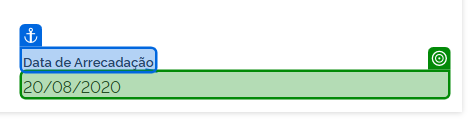
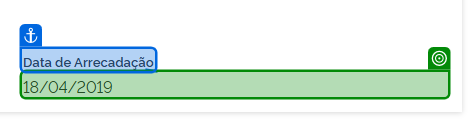
Correção verificar data de arrecadação

Changed region(s): [[0.0298, 0.6378, 0.2681, 0.7323]]

diff --git a/Main.xaml b/Main.xaml
@@ -279,15 +279,11 @@
       <x:Boolean x:Key="ShouldCollapseAll">False</x:Boolean>
     </scg:Dictionary>
   </sap:WorkflowViewStateService.ViewState>
-  <Sequence DisplayName="Main Sequence" sap:VirtualizedContainerService.HintSize="3518,55852" sap2010:WorkflowViewState.IdRef="Sequence_6">
+  <Sequence DisplayName="Main Sequence" sap:VirtualizedContainerService.HintSize="3518,55773" sap2010:WorkflowViewState.IdRef="Sequence_6">
     <Sequence.Variables>
       <Variable x:TypeArguments="x:Boolean" Name="naoPossuiArrecadacao" />
       <Variable x:TypeArguments="x:Boolean" Name="verificaAcimaDeMil" />
-      <Variable x:TypeArguments="x:Int32" Name="ano">
-        <Variable.Default>
-          <Literal x:TypeArguments="x:Int32" Value="2020" />
-        </Variable.Default>
-      </Variable>
+      <Variable x:TypeArguments="x:Int32" Default="2020" Name="ano" />
       <Variable x:TypeArguments="x:String" Name="sheet" />
       <Variable x:TypeArguments="x:String" Name="usuario" />
       <Variable x:TypeArguments="x:String" Name="certificado" />
@@ -295,11 +291,7 @@
       <Variable x:TypeArguments="x:String" Name="pagina" />
       <Variable x:TypeArguments="x:String" Name="empresa" />
       <Variable x:TypeArguments="x:String" Name="cnpj" />
-      <Variable x:TypeArguments="x:Int32" Name="maximoDispositivos">
-        <Variable.Default>
-          <Literal x:TypeArguments="x:Int32" />
-        </Variable.Default>
-      </Variable>
+      <Variable x:TypeArguments="x:Int32" Default="0" Name="maximoDispositivos" />
       <Variable x:TypeArguments="x:Boolean" Name="pastaExiste" />
       <Variable x:TypeArguments="x:String" Name="codigoDescricao" />
       <Variable x:TypeArguments="x:String" Name="dataAbertura" />
@@ -312,11 +304,7 @@
       <Variable x:TypeArguments="x:String" Name="darf" />
       <Variable x:TypeArguments="x:String" Name="valorDarf" />
       <Variable x:TypeArguments="x:String" Name="textoPDF" />
-      <Variable x:TypeArguments="x:Int32" Name="menosAno">
-        <Variable.Default>
-          <Literal x:TypeArguments="x:Int32" />
-        </Variable.Default>
-      </Variable>
+      <Variable x:TypeArguments="x:Int32" Default="0" Name="menosAno" />
       <Variable x:TypeArguments="x:String" Name="data2" />
       <Variable x:TypeArguments="x:String" Name="data1" />
       <Variable x:TypeArguments="s:DateTime" Name="dataInicial" />
@@ -332,11 +320,7 @@
       <Variable x:TypeArguments="x:String" Name="newSheet" />
       <Variable x:TypeArguments="sd:DataTable" Name="tabelaFaseamento" />
       <Variable x:TypeArguments="sd:DataTable" Name="dataPerdcomp" />
-      <Variable x:TypeArguments="x:Int32" Name="mesAtual">
-        <Variable.Default>
-          <Literal x:TypeArguments="x:Int32" />
-        </Variable.Default>
-      </Variable>
+      <Variable x:TypeArguments="x:Int32" Default="0" Name="mesAtual" />
     </Sequence.Variables>
     <sap:WorkflowViewStateService.ViewState>
       <scg:Dictionary x:TypeArguments="x:String, x:Object">
@@ -445,13 +429,13 @@
     </Assign>
     <ui:MessageBox Caption="{x:Null}" ChosenButton="{x:Null}" AutoCloseAfter="00:00:00" Buttons="Ok" DisplayName="Texto pedindo para escolher" sap:VirtualizedContainerService.HintSize="3518,117" sap2010:WorkflowViewState.IdRef="MessageBox_6" Text="[&quot;Por favor, selecione o modelo de Excel em que será salvo.&quot;]" />
     <ui:SelectFile InitialDirectory="{x:Null}" Multiselect="{x:Null}" SelectedFiles="{x:Null}" DisplayName="Pede para escolher o modelo" Filter="Todos os arquivos |*.*" sap:VirtualizedContainerService.HintSize="3518,170" sap2010:WorkflowViewState.IdRef="SelectFile_2" SelectedFile="[sheet]" />
-    <ui:ForEachRow ColumnNames="{x:Null}" CurrentIndex="{x:Null}" DataTable="[tabelaDados]" DisplayName="Para Cada Linha" sap:VirtualizedContainerService.HintSize="3518,53417" sap2010:WorkflowViewState.IdRef="ForEachRow_2">
+    <ui:ForEachRow ColumnNames="{x:Null}" CurrentIndex="{x:Null}" DataTable="[tabelaDados]" DisplayName="Para Cada Linha" sap:VirtualizedContainerService.HintSize="3518,53339" sap2010:WorkflowViewState.IdRef="ForEachRow_2">
       <ui:ForEachRow.Body>
         <ActivityAction x:TypeArguments="sd:DataRow">
           <ActivityAction.Argument>
             <DelegateInArgument x:TypeArguments="sd:DataRow" Name="linhaAtual" />
           </ActivityAction.Argument>
-          <Sequence DisplayName="Ações para cada Empresa" sap:VirtualizedContainerService.HintSize="3516,53237" sap2010:WorkflowViewState.IdRef="Sequence_438">
+          <Sequence DisplayName="Ações para cada Empresa" sap:VirtualizedContainerService.HintSize="3516,53159" sap2010:WorkflowViewState.IdRef="Sequence_438">
             <sap:WorkflowViewStateService.ViewState>
               <scg:Dictionary x:TypeArguments="x:String, x:Object">
                 <x:Boolean x:Key="IsExpanded">True</x:Boolean>
@@ -490,13 +474,13 @@
               </Assign.Value>
             </Assign>
             <ui:CopyFile ContinueOnError="{x:Null}" Destination="[newSheet]" DisplayName="Copy File" sap:VirtualizedContainerService.HintSize="3482,186" sap2010:WorkflowViewState.IdRef="CopyFile_2" Overwrite="True" Path="[sheet]" />
-            <ueab:ExcelApplicationCard Password="{x:Null}" ReadFormatting="{x:Null}" SensitivityLabel="{x:Null}" CreateNewFile="False" DisplayName="Abre o Excel" sap:VirtualizedContainerService.HintSize="3482,52125" sap2010:WorkflowViewState.IdRef="ExcelApplicationCard_1" ResizeWindow="None" SensitivityOperation="None" WorkbookPath="[newSheet]">
+            <ueab:ExcelApplicationCard Password="{x:Null}" ReadFormatting="{x:Null}" SensitivityLabel="{x:Null}" CreateNewFile="False" DisplayName="Abre o Excel" sap:VirtualizedContainerService.HintSize="3482,52047" sap2010:WorkflowViewState.IdRef="ExcelApplicationCard_1" ResizeWindow="None" SensitivityOperation="None" WorkbookPath="[newSheet]">
               <ueab:ExcelApplicationCard.Body>
                 <ActivityAction x:TypeArguments="ue:IWorkbookQuickHandle">
                   <ActivityAction.Argument>
                     <DelegateInArgument x:TypeArguments="ue:IWorkbookQuickHandle" Name="Excel" />
                   </ActivityAction.Argument>
-                  <Sequence DisplayName="Do" sap:VirtualizedContainerService.HintSize="3448,51824" sap2010:WorkflowViewState.IdRef="Sequence_515">
+                  <Sequence DisplayName="Do" sap:VirtualizedContainerService.HintSize="3448,51706" sap2010:WorkflowViewState.IdRef="Sequence_515">
                     <Sequence.Variables>
                       <Variable x:TypeArguments="x:String" Name="cnpjFormatado" />
                     </Sequence.Variables>
@@ -1022,21 +1006,21 @@
                         <InArgument x:TypeArguments="x:String">[cnpj.replace(".","").replace("-","").replace("/","")]</InArgument>
                       </Assign.Value>
                     </Assign>
-                    <If Condition="[Excel.Sheet(&quot;CHECKLIST&quot;).Cell(&quot;B7&quot;).StringValue = &quot;&quot;]" DisplayName="Verifica se a célula B7 está vazia" sap:VirtualizedContainerService.HintSize="3414,3652" sap2010:WorkflowViewState.IdRef="If_60">
+                    <If Condition="[Excel.Sheet(&quot;CHECKLIST&quot;).Cell(&quot;B7&quot;).StringValue = &quot;&quot;]" DisplayName="Verifica se a célula B7 está vazia" sap:VirtualizedContainerService.HintSize="3414,3572" sap2010:WorkflowViewState.IdRef="If_60">
                       <If.Then>
-                        <Sequence DisplayName="Célula B7 está vazia" sap:VirtualizedContainerService.HintSize="1152,3424" sap2010:WorkflowViewState.IdRef="Sequence_398">
+                        <Sequence DisplayName="Célula B7 está vazia" sap:VirtualizedContainerService.HintSize="1152,3344" sap2010:WorkflowViewState.IdRef="Sequence_398">
                           <sap:WorkflowViewStateService.ViewState>
                             <scg:Dictionary x:TypeArguments="x:String, x:Object">
                               <x:Boolean x:Key="IsExpanded">True</x:Boolean>
                             </scg:Dictionary>
                           </sap:WorkflowViewStateService.ViewState>
-                          <uix:NApplicationCard AttachMode="ByInstance" DisplayName="Abre o Simples Nacional" HealingAgentBehavior="Job" sap:VirtualizedContainerService.HintSize="1118,2991" sap2010:WorkflowViewState.IdRef="NApplicationCard_21" InteractionMode="DebuggerApi" ScopeGuid="b1b732b3-8ce9-4a33-9a60-fbc138b7fbfb" Version="V2">
+                          <uix:NApplicationCard AttachMode="ByInstance" DisplayName="Abre o Simples Nacional" HealingAgentBehavior="Job" sap:VirtualizedContainerService.HintSize="1118,2911" sap2010:WorkflowViewState.IdRef="NApplicationCard_21" InteractionMode="DebuggerApi" ScopeGuid="b1b732b3-8ce9-4a33-9a60-fbc138b7fbfb" Version="V2">
                             <uix:NApplicationCard.Body>
                               <ActivityAction x:TypeArguments="x:Object">
                                 <ActivityAction.Argument>
                                   <DelegateInArgument x:TypeArguments="x:Object" Name="WSSessionData" />
                                 </ActivityAction.Argument>
-                                <Sequence DisplayName="Navega pelo Simples Nacional" sap:VirtualizedContainerService.HintSize="1084,2702" sap2010:WorkflowViewState.IdRef="Sequence_400">
+                                <Sequence DisplayName="Navega pelo Simples Nacional" sap:VirtualizedContainerService.HintSize="1084,2662" sap2010:WorkflowViewState.IdRef="Sequence_400">
                                   <Sequence.Variables>
                                     <Variable x:TypeArguments="x:String" Name="OptanteSimplesNacional" />
                                   </Sequence.Variables>
@@ -1111,7 +1095,7 @@
                                       </uix:TargetAnchorable>
                                     </uix:NClick.Target>
                                   </uix:NClick>
-                                  <uix:NCheckState DisplayName="Verifica se tem período do Simples Nacional" HealingAgentBehavior="Disabled" sap:VirtualizedContainerService.HintSize="1050,1140" sap2010:WorkflowViewState.IdRef="NCheckState_51" ScopeIdentifier="b1b732b3-8ce9-4a33-9a60-fbc138b7fbfb" Version="V4">
+                                  <uix:NCheckState DisplayName="Verifica se tem período do Simples Nacional" HealingAgentBehavior="Disabled" sap:VirtualizedContainerService.HintSize="1050,1100" sap2010:WorkflowViewState.IdRef="NCheckState_51" ScopeIdentifier="b1b732b3-8ce9-4a33-9a60-fbc138b7fbfb" Version="V4">
                                     <uix:NCheckState.IfExists>
                                       <Sequence DisplayName="Se tem" sap:VirtualizedContainerService.HintSize="546,851" sap2010:WorkflowViewState.IdRef="Sequence_401">
                                         <sap:WorkflowViewStateService.ViewState>
@@ -1249,28 +1233,20 @@
                         </Sequence>
                       </If.Else>
                     </If>
-                    <uix:NApplicationCard DisplayName="Browser" HealingAgentBehavior="Job" sap:VirtualizedContainerService.HintSize="3414,41834" sap2010:WorkflowViewState.IdRef="NApplicationCard_1" InteractionMode="DebuggerApi" ScopeGuid="cd12c88d-9ee2-4e74-a831-638ddf9c26dc" UserDataFolderMode="DefaultFolder">
+                    <uix:NApplicationCard DisplayName="Browser" HealingAgentBehavior="Job" sap:VirtualizedContainerService.HintSize="3414,41796" sap2010:WorkflowViewState.IdRef="NApplicationCard_1" InteractionMode="DebuggerApi" ScopeGuid="cd12c88d-9ee2-4e74-a831-638ddf9c26dc" UserDataFolderMode="DefaultFolder">
                       <uix:NApplicationCard.Body>
                         <ActivityAction x:TypeArguments="x:Object">
                           <ActivityAction.Argument>
                             <DelegateInArgument x:TypeArguments="x:Object" Name="WSSessionData" />
                           </ActivityAction.Argument>
-                          <Sequence DisplayName="cnpjNavega pelo eCAC" sap:VirtualizedContainerService.HintSize="3380,41594" sap2010:WorkflowViewState.IdRef="Sequence_2">
+                          <Sequence DisplayName="cnpjNavega pelo eCAC" sap:VirtualizedContainerService.HintSize="3380,41556" sap2010:WorkflowViewState.IdRef="Sequence_2">
                             <Sequence.Variables>
                               <Variable x:TypeArguments="x:Boolean" Name="verificouOlho" />
                               <Variable x:TypeArguments="s:DateTime" Name="dataHoje" />
                               <Variable x:TypeArguments="x:String" Name="dataHojeFormatada" />
                               <Variable x:TypeArguments="x:String" Name="anoAbertura" />
-                              <Variable x:TypeArguments="x:Int32" Name="anoAtual">
-                                <Variable.Default>
-                                  <Literal x:TypeArguments="x:Int32" />
-                                </Variable.Default>
-                              </Variable>
-                              <Variable x:TypeArguments="x:Int32" Name="difAnoAtualAbertura">
-                                <Variable.Default>
-                                  <Literal x:TypeArguments="x:Int32" />
-                                </Variable.Default>
-                              </Variable>
+                              <Variable x:TypeArguments="x:Int32" Default="0" Name="anoAtual" />
+                              <Variable x:TypeArguments="x:Int32" Default="0" Name="difAnoAtualAbertura" />
                             </Sequence.Variables>
                             <sap:WorkflowViewStateService.ViewState>
                               <scg:Dictionary x:TypeArguments="x:String, x:Object">
@@ -1414,7 +1390,7 @@
                                 </Sequence>
                               </ui:InterruptibleWhile.Body>
                             </ui:InterruptibleWhile>
-                            <uix:NCheckState DisplayName="Verifica se atingiu o máximo" EnableIfNotExists="False" HealingAgentBehavior="Disabled" sap:VirtualizedContainerService.HintSize="2908,697" sap2010:WorkflowViewState.IdRef="NCheckState_10" ScopeIdentifier="cd12c88d-9ee2-4e74-a831-638ddf9c26dc" Version="V4">
+                            <uix:NCheckState DisplayName="Verifica se atingiu o máximo" EnableIfNotExists="False" HealingAgentBehavior="Disabled" sap:VirtualizedContainerService.HintSize="3346,657" sap2010:WorkflowViewState.IdRef="NCheckState_10" ScopeIdentifier="cd12c88d-9ee2-4e74-a831-638ddf9c26dc" Version="V4">
                               <uix:NCheckState.IfExists>
                                 <Sequence DisplayName="Atingiu" sap:VirtualizedContainerService.HintSize="450,408" sap2010:WorkflowViewState.IdRef="Sequence_36">
                                   <sap:WorkflowViewStateService.ViewState>
@@ -1596,9 +1572,9 @@
                                 <uix:TargetAnchorable BrowserURL="cav.receita.fazenda.gov.br/ecac" ContentHash="tnYmiF1BH0mTNN8iZBS5bQ" DesignTimeRectangle="762, 592, 413, 75" ElementType="Text" FullSelectorArgument="&lt;webctrl parentid='dialog-bloqueio-ativo-caixapostal' tag='P' /&gt;" Guid="3c3801f5-5bd6-443e-8354-af488f5b6060" InformativeScreenshot="86381629ef0cda24e1e91bb0b0b28fd4.png" Reference="DRaOZbhlWkaD6Iu4Nuk-ug/H7GRVdEiWEOfvxFReFYL_w" ScopeSelectorArgument="&lt;html app='chrome.exe' title='eCAC - Centro Virtual de Atendimento' /&gt;" SearchSteps="Selector" Version="V6" Visibility="Interactive" WaitForReadyArgument="None" />
                               </uix:NCheckState.Target>
                             </uix:NCheckState>
-                            <uix:NCheckState DisplayName="Check App State 'Restituição e Compensaç…'" HealingAgentBehavior="Disabled" sap:VirtualizedContainerService.HintSize="3346,9156" sap2010:WorkflowViewState.IdRef="NCheckState_62" ScopeIdentifier="cd12c88d-9ee2-4e74-a831-638ddf9c26dc" Version="V4">
+                            <uix:NCheckState DisplayName="Check App State 'Restituição e Compensaç…'" HealingAgentBehavior="Disabled" sap:VirtualizedContainerService.HintSize="3346,9158" sap2010:WorkflowViewState.IdRef="NCheckState_62" ScopeIdentifier="cd12c88d-9ee2-4e74-a831-638ddf9c26dc" Version="V4">
                               <uix:NCheckState.IfExists>
-                                <Sequence DisplayName="Target appears" sap:VirtualizedContainerService.HintSize="2842,8907" sap2010:WorkflowViewState.IdRef="Sequence_467">
+                                <Sequence DisplayName="Target appears" sap:VirtualizedContainerService.HintSize="2842,8909" sap2010:WorkflowViewState.IdRef="Sequence_467">
                                   <sap:WorkflowViewStateService.ViewState>
                                     <scg:Dictionary x:TypeArguments="x:String, x:Object">
                                       <x:Boolean x:Key="IsExpanded">True</x:Boolean>
@@ -1627,13 +1603,13 @@
                                     </uix:NClick.Target>
                                   </uix:NClick>
                                   <Delay Duration="00:00:03" sap:VirtualizedContainerService.HintSize="2808,122" sap2010:WorkflowViewState.IdRef="Delay_16" />
-                                  <uix:NApplicationCard AttachMode="ByInstance" CloseMode="Always" DisplayName="Chrome Consulta Processamento" HealingAgentBehavior="Job" sap:VirtualizedContainerService.HintSize="2808,8345" sap2010:WorkflowViewState.IdRef="NApplicationCard_27" InteractionMode="DebuggerApi" ScopeGuid="8460fdfd-4d49-4e02-bf0b-28bd3075acb0" Version="V2">
+                                  <uix:NApplicationCard AttachMode="ByInstance" CloseMode="Always" DisplayName="Chrome Consulta Processamento" HealingAgentBehavior="Job" sap:VirtualizedContainerService.HintSize="2808,8347" sap2010:WorkflowViewState.IdRef="NApplicationCard_27" InteractionMode="DebuggerApi" ScopeGuid="8460fdfd-4d49-4e02-bf0b-28bd3075acb0" Version="V2">
                                     <uix:NApplicationCard.Body>
                                       <ActivityAction x:TypeArguments="x:Object">
                                         <ActivityAction.Argument>
                                           <DelegateInArgument x:TypeArguments="x:Object" Name="WSSessionData" />
                                         </ActivityAction.Argument>
-                                        <Sequence DisplayName="Do" sap:VirtualizedContainerService.HintSize="2774,8103" sap2010:WorkflowViewState.IdRef="Sequence_460">
+                                        <Sequence DisplayName="Do" sap:VirtualizedContainerService.HintSize="2774,8105" sap2010:WorkflowViewState.IdRef="Sequence_460">
                                           <Sequence.Variables>
                                             <Variable x:TypeArguments="x:String" Name="planilhaPerdcomp" />
                                           </Sequence.Variables>
@@ -1671,7 +1647,7 @@
                                               </uix:TargetAnchorable>
                                             </uix:NCheckState.Target>
                                           </uix:NCheckState>
-                                          <uix:NCheckState DisplayName="Check App State 'Não há documentos a ser…'" HealingAgentBehavior="Disabled" sap:VirtualizedContainerService.HintSize="2740,7832" sap2010:WorkflowViewState.IdRef="NCheckState_63" ScopeIdentifier="8460fdfd-4d49-4e02-bf0b-28bd3075acb0" Version="V4">
+                                          <uix:NCheckState DisplayName="Check App State 'Não há documentos a ser…'" HealingAgentBehavior="Disabled" sap:VirtualizedContainerService.HintSize="2740,7834" sap2010:WorkflowViewState.IdRef="NCheckState_63" ScopeIdentifier="8460fdfd-4d49-4e02-bf0b-28bd3075acb0" Version="V4">
                                             <uix:NCheckState.IfExists>
                                               <Sequence DisplayName="Target appears" sap:VirtualizedContainerService.HintSize="468,246" sap2010:WorkflowViewState.IdRef="Sequence_462">
                                                 <sap:WorkflowViewStateService.ViewState>
@@ -1683,13 +1659,13 @@
                                               </Sequence>
                                             </uix:NCheckState.IfExists>
                                             <uix:NCheckState.IfNotExists>
-                                              <Sequence DisplayName="Target does not appear" sap:VirtualizedContainerService.HintSize="2218,7590" sap2010:WorkflowViewState.IdRef="Sequence_466">
+                                              <Sequence DisplayName="Target does not appear" sap:VirtualizedContainerService.HintSize="2218,7592" sap2010:WorkflowViewState.IdRef="Sequence_466">
                                                 <sap:WorkflowViewStateService.ViewState>
                                                   <scg:Dictionary x:TypeArguments="x:String, x:Object">
                                                     <x:Boolean x:Key="IsExpanded">True</x:Boolean>
                                                   </scg:Dictionary>
                                                 </sap:WorkflowViewStateService.ViewState>
-                                                <uix:NSelectItem DisplayName="Select Item 'Exibir'" HealingAgentBehavior="SameAsCard" sap:VirtualizedContainerService.HintSize="1646,189" sap2010:WorkflowViewState.IdRef="NSelectItem_2" Item="100" ScopeIdentifier="8460fdfd-4d49-4e02-bf0b-28bd3075acb0" Version="V4">
+                                                <uix:NSelectItem DisplayName="Select Item 'Exibir'" HealingAgentBehavior="SameAsCard" sap:VirtualizedContainerService.HintSize="2184,189" sap2010:WorkflowViewState.IdRef="NSelectItem_2" Item="100" ScopeIdentifier="8460fdfd-4d49-4e02-bf0b-28bd3075acb0" Version="V4">
                                                   <uix:NSelectItem.Items>
                                                     <scg:List x:TypeArguments="x:String" Capacity="6">
                                                       <x:String>100</x:String>
@@ -1771,7 +1747,7 @@
                                                   </ueab:ExcelApplicationCard.Body>
                                                 </ueab:ExcelApplicationCard>
                                                 <ui:ExcelWriteRange AddHeaders="False" DataTable="[dataPerdcomp]" DisplayName="Write Range" sap:VirtualizedContainerService.HintSize="2184,120" sap2010:WorkflowViewState.IdRef="ExcelWriteRange_6" SheetName="PERDCOMPS" StartingCell="A2" />
-                                                <ueab:ExcelForEachRowX DisplayName="For Each Excel Row" EmptyRowBehavior="Stop" HasHeaders="True" sap:VirtualizedContainerService.HintSize="2184,5831" sap2010:WorkflowViewState.IdRef="ExcelForEachRowX_4" Range="[Excel.Sheet(&quot;PERDCOMPS&quot;)]" SaveAfterEachRow="True">
+                                                <ueab:ExcelForEachRowX DisplayName="For Each Excel Row" EmptyRowBehavior="Stop" HasHeaders="True" sap:VirtualizedContainerService.HintSize="2184,5833" sap2010:WorkflowViewState.IdRef="ExcelForEachRowX_4" Range="[Excel.Sheet(&quot;PERDCOMPS&quot;)]" SaveAfterEachRow="True">
                                                   <ueab:ExcelForEachRowX.Body>
                                                     <ActivityAction x:TypeArguments="ue:CurrentRowQuickHandle, x:Int32">
                                                       <ActivityAction.Argument1>
@@ -1780,7 +1756,7 @@
                                                       <ActivityAction.Argument2>
                                                         <DelegateInArgument x:TypeArguments="x:Int32" Name="CurrentIndex" />
                                                       </ActivityAction.Argument2>
-                                                      <Sequence DisplayName="Do" sap:VirtualizedContainerService.HintSize="2150,5616" sap2010:WorkflowViewState.IdRef="Sequence_475">
+                                                      <Sequence DisplayName="Do" sap:VirtualizedContainerService.HintSize="2150,5618" sap2010:WorkflowViewState.IdRef="Sequence_475">
                                                         <Sequence.Variables>
                                                           <Variable x:TypeArguments="x:String" Name="numPerdcomp" />
                                                           <Variable x:TypeArguments="x:String" Name="periodoApuracao" />
@@ -1838,13 +1814,13 @@
                                                             <InArgument x:TypeArguments="x:String">["https://www3.cav.receita.fazenda.gov.br/consprocperdcomp/consulta/processamento/relacionados/" + numPerdcompFormatado]</InArgument>
                                                           </Assign.Value>
                                                         </Assign>
-                                                        <uix:NApplicationCard AttachMode="ByInstance" CloseMode="Always" DisplayName="Chrome Consulta Processamento  Relacionados(1)" HealingAgentBehavior="Job" sap:VirtualizedContainerService.HintSize="2116,4876" sap2010:WorkflowViewState.IdRef="NApplicationCard_28" InteractionMode="DebuggerApi" ScopeGuid="3184b2f4-8b3f-4998-8030-418eff8befd1" Version="V2">
+                                                        <uix:NApplicationCard AttachMode="ByInstance" CloseMode="Always" DisplayName="Chrome Consulta Processamento  Relacionados(1)" HealingAgentBehavior="Job" sap:VirtualizedContainerService.HintSize="2116,4878" sap2010:WorkflowViewState.IdRef="NApplicationCard_28" InteractionMode="DebuggerApi" ScopeGuid="3184b2f4-8b3f-4998-8030-418eff8befd1" Version="V2">
                                                           <uix:NApplicationCard.Body>
                                                             <ActivityAction x:TypeArguments="x:Object">
                                                               <ActivityAction.Argument>
                                                                 <DelegateInArgument x:TypeArguments="x:Object" Name="WSSessionData" />
                                                               </ActivityAction.Argument>
-                                                              <Sequence DisplayName="Do" sap:VirtualizedContainerService.HintSize="2082,4634" sap2010:WorkflowViewState.IdRef="Sequence_478">
+                                                              <Sequence DisplayName="Do" sap:VirtualizedContainerService.HintSize="2082,4636" sap2010:WorkflowViewState.IdRef="Sequence_478">
                                                                 <sap:WorkflowViewStateService.ViewState>
                                                                   <scg:Dictionary x:TypeArguments="x:String, x:Object">
                                                                     <x:Boolean x:Key="IsExpanded">True</x:Boolean>
@@ -1879,7 +1855,7 @@
                                                                     </uix:TargetAnchorable>
                                                                   </uix:NCheckState.Target>
                                                                 </uix:NCheckState>
-                                                                <ui:CommentOut DisplayName="Comment Out" sap:VirtualizedContainerService.HintSize="2048,351" sap2010:WorkflowViewState.IdRef="CommentOut_3">
+                                                                <ui:CommentOut DisplayName="Comment Out" sap:VirtualizedContainerService.HintSize="2048,391" sap2010:WorkflowViewState.IdRef="CommentOut_3">
                                                                   <ui:CommentOut.Body>
                                                                     <Sequence DisplayName="Atividades Ignoradas" sap:VirtualizedContainerService.HintSize="450,240" sap2010:WorkflowViewState.IdRef="Sequence_486">
                                                                       <sap:WorkflowViewStateService.ViewState>
@@ -1911,7 +1887,7 @@
                                                                     </Sequence>
                                                                   </ui:CommentOut.Body>
                                                                 </ui:CommentOut>
-                                                                <uix:NCheckState DisplayName="Check App State 'Período de Apuração'" HealingAgentBehavior="Disabled" sap:VirtualizedContainerService.HintSize="2048,1139" sap2010:WorkflowViewState.IdRef="NCheckState_67" ScopeIdentifier="3184b2f4-8b3f-4998-8030-418eff8befd1" Version="V4">
+                                                                <uix:NCheckState DisplayName="Check App State 'Período de Apuração'" HealingAgentBehavior="Disabled" sap:VirtualizedContainerService.HintSize="2048,1101" sap2010:WorkflowViewState.IdRef="NCheckState_67" ScopeIdentifier="3184b2f4-8b3f-4998-8030-418eff8befd1" Version="V4">
                                                                   <uix:NCheckState.IfExists>
                                                                     <Sequence DisplayName="Target appears" sap:VirtualizedContainerService.HintSize="450,244" sap2010:WorkflowViewState.IdRef="Sequence_481">
                                                                       <sap:WorkflowViewStateService.ViewState>
@@ -1933,13 +1909,13 @@
                                                                     </Sequence>
                                                                   </uix:NCheckState.IfExists>
                                                                   <uix:NCheckState.IfNotExists>
-                                                                    <Sequence DisplayName="Target does not appear" sap:VirtualizedContainerService.HintSize="1544,890" sap2010:WorkflowViewState.IdRef="Sequence_482">
+                                                                    <Sequence DisplayName="Target does not appear" sap:VirtualizedContainerService.HintSize="1544,852" sap2010:WorkflowViewState.IdRef="Sequence_482">
                                                                       <sap:WorkflowViewStateService.ViewState>
                                                                         <scg:Dictionary x:TypeArguments="x:String, x:Object">
                                                                           <x:Boolean x:Key="IsExpanded">True</x:Boolean>
                                                                         </scg:Dictionary>
                                                                       </sap:WorkflowViewStateService.ViewState>
-                                                                      <uix:NCheckState DisplayName="Verifica se tem Período de Apuração DARF" HealingAgentBehavior="Disabled" sap:VirtualizedContainerService.HintSize="1510,828" sap2010:WorkflowViewState.IdRef="NCheckState_77" ScopeIdentifier="3184b2f4-8b3f-4998-8030-418eff8befd1" Version="V4">
+                                                                      <uix:NCheckState DisplayName="Verifica se tem Período de Apuração DARF" HealingAgentBehavior="Disabled" sap:VirtualizedContainerService.HintSize="1510,790" sap2010:WorkflowViewState.IdRef="NCheckState_77" ScopeIdentifier="3184b2f4-8b3f-4998-8030-418eff8befd1" Version="V4">
                                                                         <uix:NCheckState.IfExists>
                                                                           <Sequence DisplayName="Destino aparece" sap:VirtualizedContainerService.HintSize="450,244" sap2010:WorkflowViewState.IdRef="Sequence_520">
                                                                             <sap:WorkflowViewStateService.ViewState>
@@ -1961,15 +1937,15 @@
                                                                           </Sequence>
                                                                         </uix:NCheckState.IfExists>
                                                                         <uix:NCheckState.IfNotExists>
-                                                                          <Sequence DisplayName="Destino não aparece" sap:VirtualizedContainerService.HintSize="1006,586" sap2010:WorkflowViewState.IdRef="Sequence_521">
+                                                                          <Sequence DisplayName="Destino não aparece" sap:VirtualizedContainerService.HintSize="1006,548" sap2010:WorkflowViewState.IdRef="Sequence_521">
                                                                             <sap:WorkflowViewStateService.ViewState>
                                                                               <scg:Dictionary x:TypeArguments="x:String, x:Object">
                                                                                 <x:Boolean x:Key="IsExpanded">True</x:Boolean>
                                                                               </scg:Dictionary>
                                                                             </sap:WorkflowViewStateService.ViewState>
-                                                                            <uix:NCheckState DisplayName="Verifica se tem Data de Arrecadação" HealingAgentBehavior="Disabled" sap:VirtualizedContainerService.HintSize="972,524" sap2010:WorkflowViewState.IdRef="NCheckState_79" ScopeIdentifier="3184b2f4-8b3f-4998-8030-418eff8befd1" Version="V4">
+                                                                            <uix:NCheckState DisplayName="Verifica se tem Data de Arrecadação" HealingAgentBehavior="Disabled" sap:VirtualizedContainerService.HintSize="972,486" sap2010:WorkflowViewState.IdRef="NCheckState_79" ScopeIdentifier="3184b2f4-8b3f-4998-8030-418eff8befd1" Version="V4">
                                                                               <uix:NCheckState.IfExists>
-                                                                                <Sequence DisplayName="Destino aparece" sap:VirtualizedContainerService.HintSize="450,242" sap2010:WorkflowViewState.IdRef="Sequence_524">
+                                                                                <Sequence DisplayName="Destino aparece" sap:VirtualizedContainerService.HintSize="450,244" sap2010:WorkflowViewState.IdRef="Sequence_524">
                                                                                   <sap:WorkflowViewStateService.ViewState>
                                                                                     <scg:Dictionary x:TypeArguments="x:String, x:Object">
                                                                                       <x:Boolean x:Key="IsExpanded">True</x:Boolean>
@@ -1977,10 +1953,10 @@
                                                                                   </sap:WorkflowViewStateService.ViewState>
                                                                                   <uix:NGetText DisplayName="Get Text '20082020'" HealingAgentBehavior="SameAsCard" sap:VirtualizedContainerService.HintSize="416,182" sap2010:WorkflowViewState.IdRef="NGetText_56" ScopeIdentifier="3184b2f4-8b3f-4998-8030-418eff8befd1" TextString="[periodoApuracao]" Version="V4">
                                                                                     <uix:NGetText.Target>
-                                                                                      <uix:TargetAnchorable BrowserURL="www3.cav.receita.fazenda.gov.br/consprocperdcomp/consulta/processamento/relacionados/331179651013102013248077" CVScreenId="cf4e7f56-cf89-489e-875b-2c74b7189bf7" ContentHash="4GrxR5lYykO3SLSP3HHNrQ" CvTextArea="1447, 479, 100, 16" CvTextArgument="20/08/2020" CvType="Text" DesignTimeRectangle="1449, 475, 424, 22" ElementType="Text" FuzzySelectorArgument="&lt;webctrl type='' tag='P' class='' aaname=' 20/08/2020 ' matching:class='fuzzy' fuzzylevel:class='0.0' matching:aaname='fuzzy' fuzzylevel:aaname='0.0' check:innerText='20/08/2020' /&gt;" Guid="8a3badb7-7922-451c-b1f6-504f3fe772c9" InformativeScreenshot="6e089f8735d944e6413b45a6acddaed8.png" Reference="DRaOZbhlWkaD6Iu4Nuk-ug/lKgARJOkSE6tqQgIap4BZA" ScopeSelectorArgument="&lt;html app='chrome.exe' title='Consulta Processamento / Relacionados' /&gt;" SearchSteps="FuzzySelector, CV" Version="V6" Visibility="Interactive" WaitForReadyArgument="None">
+                                                                                      <uix:TargetAnchorable BrowserURL="www3.cav.receita.fazenda.gov.br/consprocperdcomp/consulta/processamento/relacionados/331179651013102013248077" CVScreenId="cf4e7f56-cf89-489e-875b-2c74b7189bf7" ContentHash="5xaKb_NhckG_W-yTx9mKxw" CvTextArea="1447, 479, 100, 16" CvTextArgument="20/08/2020" CvType="Text" DesignTimeRectangle="1449, 410, 424, 22" ElementType="Text" FuzzySelectorArgument="&lt;webctrl type='' tag='P' class='' aaname=' 20/08/2020 ' matching:class='fuzzy' fuzzylevel:class='0.0' matching:aaname='fuzzy' fuzzylevel:aaname='0.0' /&gt;" Guid="8a3badb7-7922-451c-b1f6-504f3fe772c9" ImageBase64="" InformativeScreenshot="111a4a2caa965fa50e4749c891fe3b3b.png" Reference="DRaOZbhlWkaD6Iu4Nuk-ug/lKgARJOkSE6tqQgIap4BZA" ScopeSelectorArgument="&lt;html app='chrome.exe' title='Consulta Processamento / Relacionados' /&gt;" SearchSteps="FuzzySelector, CV" Version="V6" Visibility="Interactive" WaitForReadyArgument="None">
                                                                                         <uix:TargetAnchorable.Anchors>
                                                                                           <scg:List x:TypeArguments="uix:ITarget" Capacity="1">
-                                                                                            <uix:Target CVScreenId="cf4e7f56-cf89-489e-875b-2c74b7189bf7" CvTextArea="1447, 455, 133, 16" CvTextArgument="Data de Arrecadação" CvType="Text" DesignTimeRectangle="1449, 452, 131, 19" ElementType="Text" FuzzySelectorArgument="&lt;webctrl aaname='Data de Arrecadação' tag='LABEL' type='' class='' matching:aaname='fuzzy' fuzzylevel:aaname='0.0' matching:class='fuzzy' fuzzylevel:class='0.0' check:innerText='Data de Arrecadação' /&gt;" Guid="fa4c863d-3999-45cf-aa6b-3b2950730add" SearchSteps="FuzzySelector, CV" />
+                                                                                            <uix:Target CVScreenId="cf4e7f56-cf89-489e-875b-2c74b7189bf7" CvTextArea="1447, 455, 133, 16" CvTextArgument="Data de Arrecadação" CvType="Text" DesignTimeRectangle="1449, 387, 131, 19" ElementType="Text" FuzzySelectorArgument="&lt;webctrl aaname='Data de Arrecadação' tag='LABEL' type='' class='' matching:aaname='fuzzy' fuzzylevel:aaname='0.0' matching:class='fuzzy' fuzzylevel:class='0.0' check:innerText='Data de Arrecadação' /&gt;" Guid="fa4c863d-3999-45cf-aa6b-3b2950730add" SearchSteps="FuzzySelector, CV" />
                                                                                           </scg:List>
                                                                                         </uix:TargetAnchorable.Anchors>
                                                                                       </uix:TargetAnchorable>
@@ -1989,7 +1965,7 @@
                                                                                 </Sequence>
                                                                               </uix:NCheckState.IfExists>
                                                                               <uix:NCheckState.IfNotExists>
-                                                                                <Sequence DisplayName="Destino não aparece" sap:VirtualizedContainerService.HintSize="468,167" sap2010:WorkflowViewState.IdRef="Sequence_525">
+                                                                                <Sequence DisplayName="Destino não aparece" sap:VirtualizedContainerService.HintSize="468,169" sap2010:WorkflowViewState.IdRef="Sequence_525">
                                                                                   <sap:WorkflowViewStateService.ViewState>
                                                                                     <scg:Dictionary x:TypeArguments="x:String, x:Object">
                                                                                       <x:Boolean x:Key="IsExpanded">True</x:Boolean>
@@ -2006,10 +1982,10 @@
                                                                                 </Sequence>
                                                                               </uix:NCheckState.IfNotExists>
                                                                               <uix:NCheckState.Target>
-                                                                                <uix:TargetAnchorable BrowserURL="www3.cav.receita.fazenda.gov.br/consprocperdcomp/consulta/processamento/relacionados/331179651013102013248077" CVScreenId="cf4e7f56-cf89-489e-875b-2c74b7189bf7" ContentHash="4GrxR5lYykO3SLSP3HHNrQ" CvTextArea="1447, 479, 100, 16" CvTextArgument="20/08/2020" CvType="Text" DesignTimeRectangle="1449, 475, 424, 22" ElementType="Text" FuzzySelectorArgument="&lt;webctrl type='' tag='P' class='' aaname=' 20/08/2020 ' matching:class='fuzzy' fuzzylevel:class='0.0' matching:aaname='fuzzy' fuzzylevel:aaname='0.0' check:innerText='20/08/2020' /&gt;" Guid="8a3badb7-7922-451c-b1f6-504f3fe772c9" InformativeScreenshot="6e089f8735d944e6413b45a6acddaed8.png" Reference="DRaOZbhlWkaD6Iu4Nuk-ug/lKgARJOkSE6tqQgIap4BZA" ScopeSelectorArgument="&lt;html app='chrome.exe' title='Consulta Processamento / Relacionados' /&gt;" SearchSteps="FuzzySelector, CV" Version="V6" Visibility="Interactive" WaitForReadyArgument="None">
+                                                                                <uix:TargetAnchorable BrowserURL="www3.cav.receita.fazenda.gov.br/consprocperdcomp/consulta/processamento/relacionados/331179651013102013248077" CVScreenId="cf4e7f56-cf89-489e-875b-2c74b7189bf7" ContentHash="5xaKb_NhckG_W-yTx9mKxw" CvTextArea="1447, 479, 100, 16" CvTextArgument="20/08/2020" CvType="Text" DesignTimeRectangle="1449, 410, 424, 22" ElementType="Text" FuzzySelectorArgument="&lt;webctrl type='' tag='P' class='' aaname=' 20/08/2020 ' matching:class='fuzzy' fuzzylevel:class='0.0' matching:aaname='fuzzy' fuzzylevel:aaname='0.0' /&gt;" Guid="8a3badb7-7922-451c-b1f6-504f3fe772c9" ImageBase64="" InformativeScreenshot="111a4a2caa965fa50e4749c891fe3b3b.png" Reference="DRaOZbhlWkaD6Iu4Nuk-ug/lKgARJOkSE6tqQgIap4BZA" ScopeSelectorArgument="&lt;html app='chrome.exe' title='Consulta Processamento / Relacionados' /&gt;" SearchSteps="FuzzySelector, CV" Version="V6" Visibility="Interactive" WaitForReadyArgument="None">
                                                                                   <uix:TargetAnchorable.Anchors>
-                                                                                    <scg:List x:TypeArguments="uix:ITarget" Capacity="4">
-                                                                                      <uix:Target CVScreenId="cf4e7f56-cf89-489e-875b-2c74b7189bf7" CvTextArea="1447, 455, 133, 16" CvTextArgument="Data de Arrecadação" CvType="Text" DesignTimeRectangle="1449, 452, 131, 19" ElementType="Text" FuzzySelectorArgument="&lt;webctrl aaname='Data de Arrecadação' tag='LABEL' type='' class='' matching:aaname='fuzzy' fuzzylevel:aaname='0.0' matching:class='fuzzy' fuzzylevel:class='0.0' check:innerText='Data de Arrecadação' /&gt;" Guid="fa4c863d-3999-45cf-aa6b-3b2950730add" SearchSteps="FuzzySelector, CV" />
+                                                                                    <scg:List x:TypeArguments="uix:ITarget" Capacity="1">
+                                                                                      <uix:Target CVScreenId="cf4e7f56-cf89-489e-875b-2c74b7189bf7" CvTextArea="1447, 455, 133, 16" CvTextArgument="Data de Arrecadação" CvType="Text" DesignTimeRectangle="1449, 387, 131, 19" ElementType="Text" FuzzySelectorArgument="&lt;webctrl aaname='Data de Arrecadação' tag='LABEL' type='' class='' matching:aaname='fuzzy' fuzzylevel:aaname='0.0' matching:class='fuzzy' fuzzylevel:class='0.0' check:innerText='Data de Arrecadação' /&gt;" Guid="fa4c863d-3999-45cf-aa6b-3b2950730add" SearchSteps="FuzzySelector, CV" />
                                                                                     </scg:List>
                                                                                   </uix:TargetAnchorable.Anchors>
                                                                                 </uix:TargetAnchorable>
@@ -5601,6 +5577,6 @@
         </ActivityAction>
       </ui:ForEachRow.Body>
     </ui:ForEachRow>
-    <ui:MessageBox Caption="{x:Null}" ChosenButton="{x:Null}" AutoCloseAfter="00:00:00" DisplayName="Message Box" sap:VirtualizedContainerService.HintSize="3080,109" sap2010:WorkflowViewState.IdRef="MessageBox_3" Text="[&quot;Finalizado!&quot;]" />
+    <ui:MessageBox Caption="{x:Null}" ChosenButton="{x:Null}" AutoCloseAfter="00:00:00" DisplayName="Message Box" sap:VirtualizedContainerService.HintSize="3518,108" sap2010:WorkflowViewState.IdRef="MessageBox_3" Text="[&quot;Finalizado!&quot;]" />
   </Sequence>
 </Activity>
